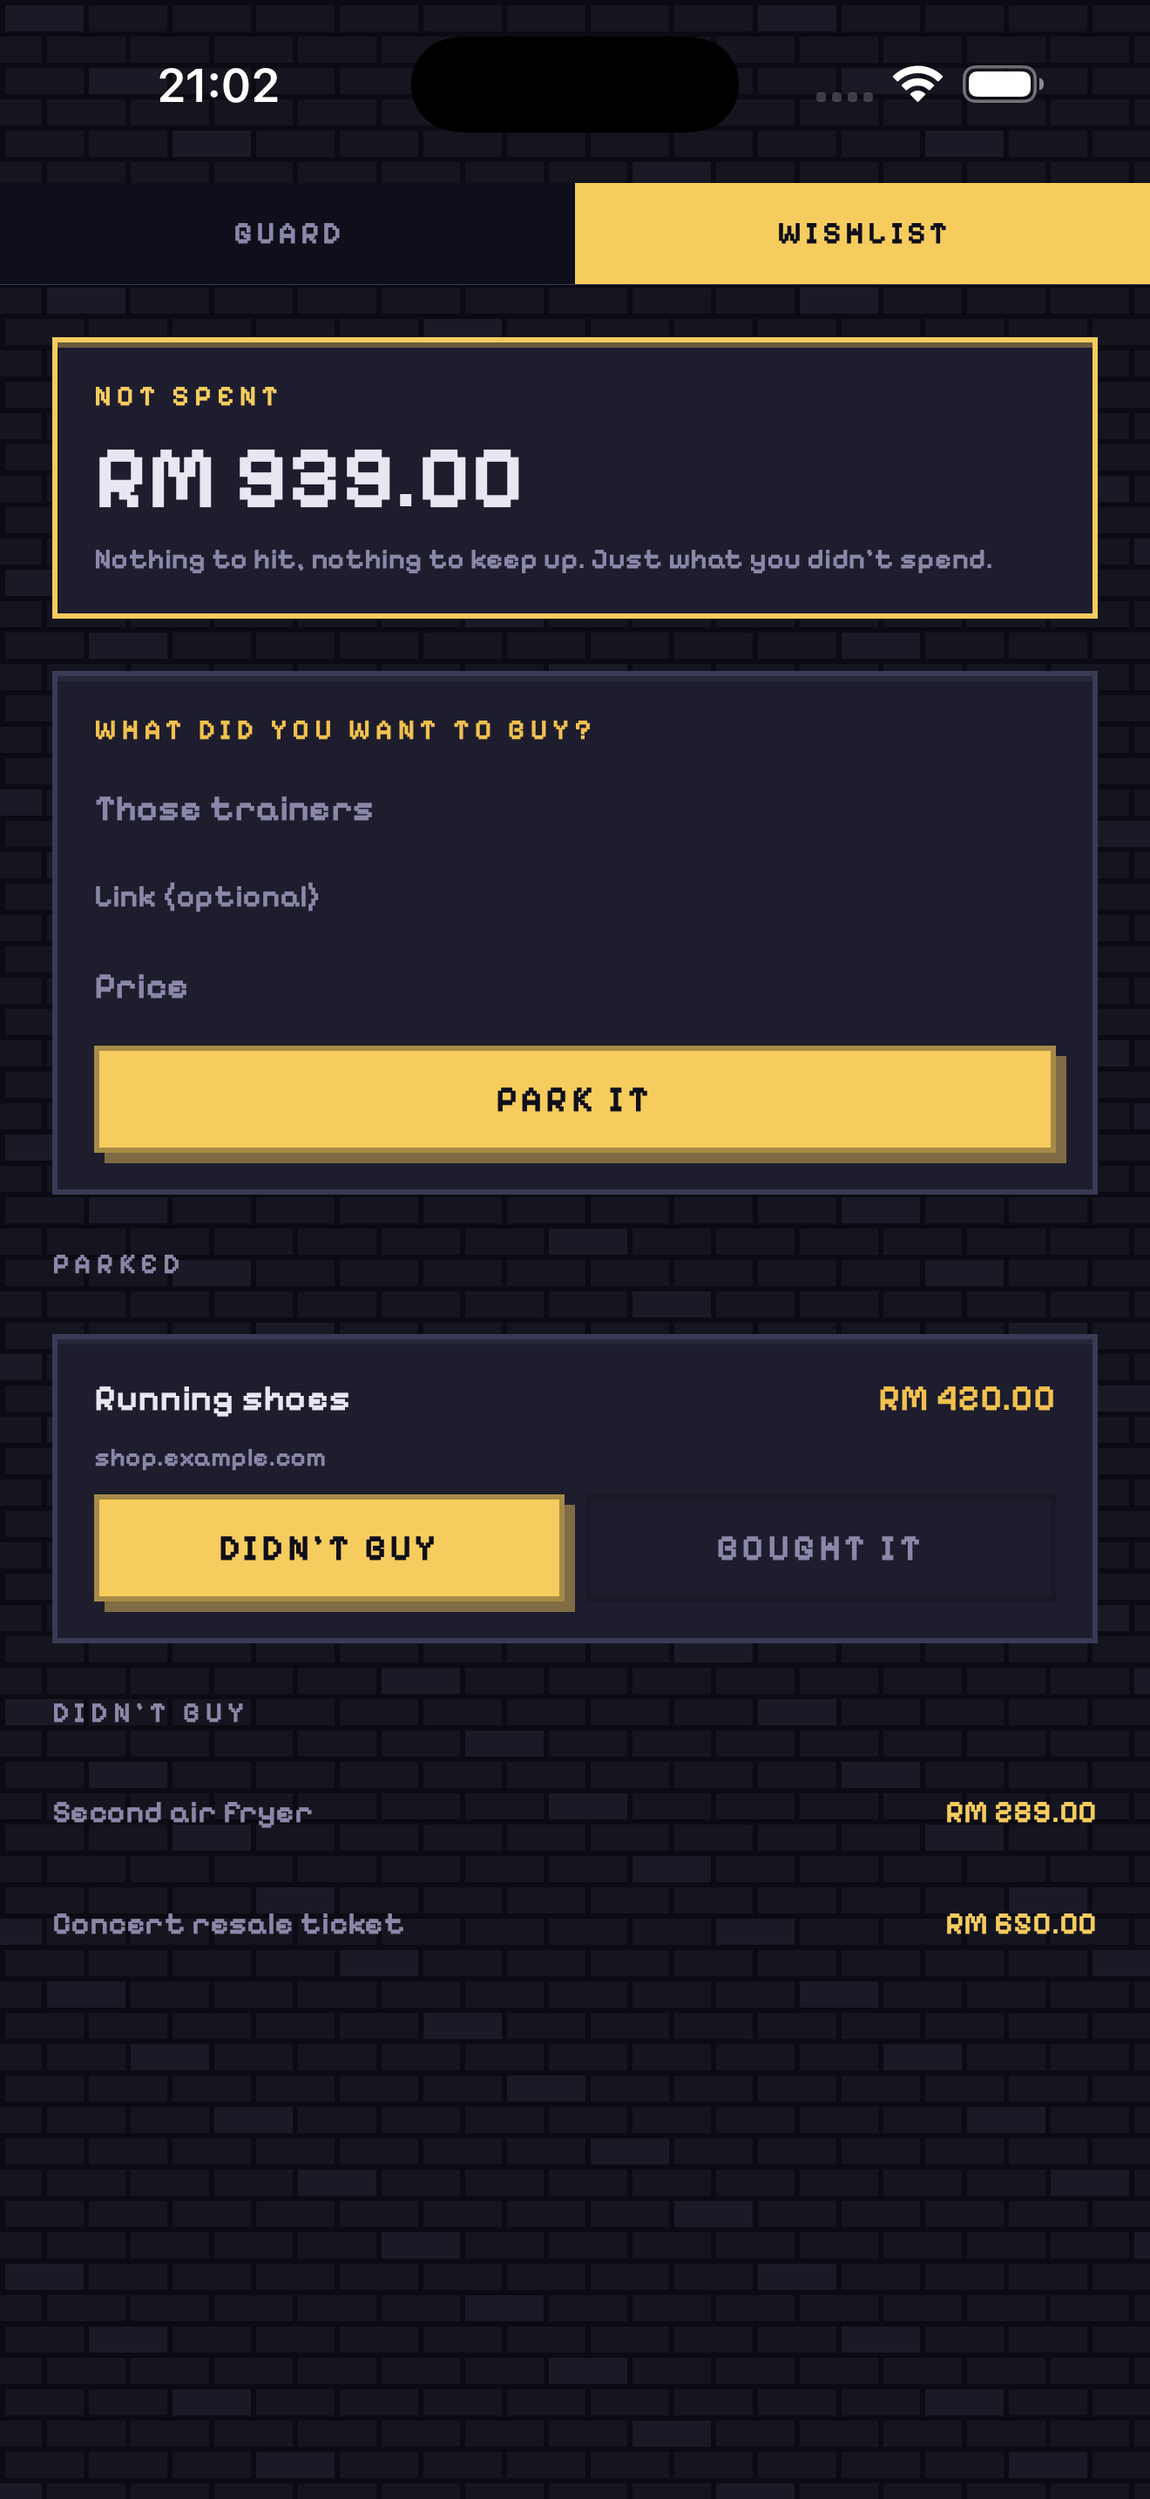
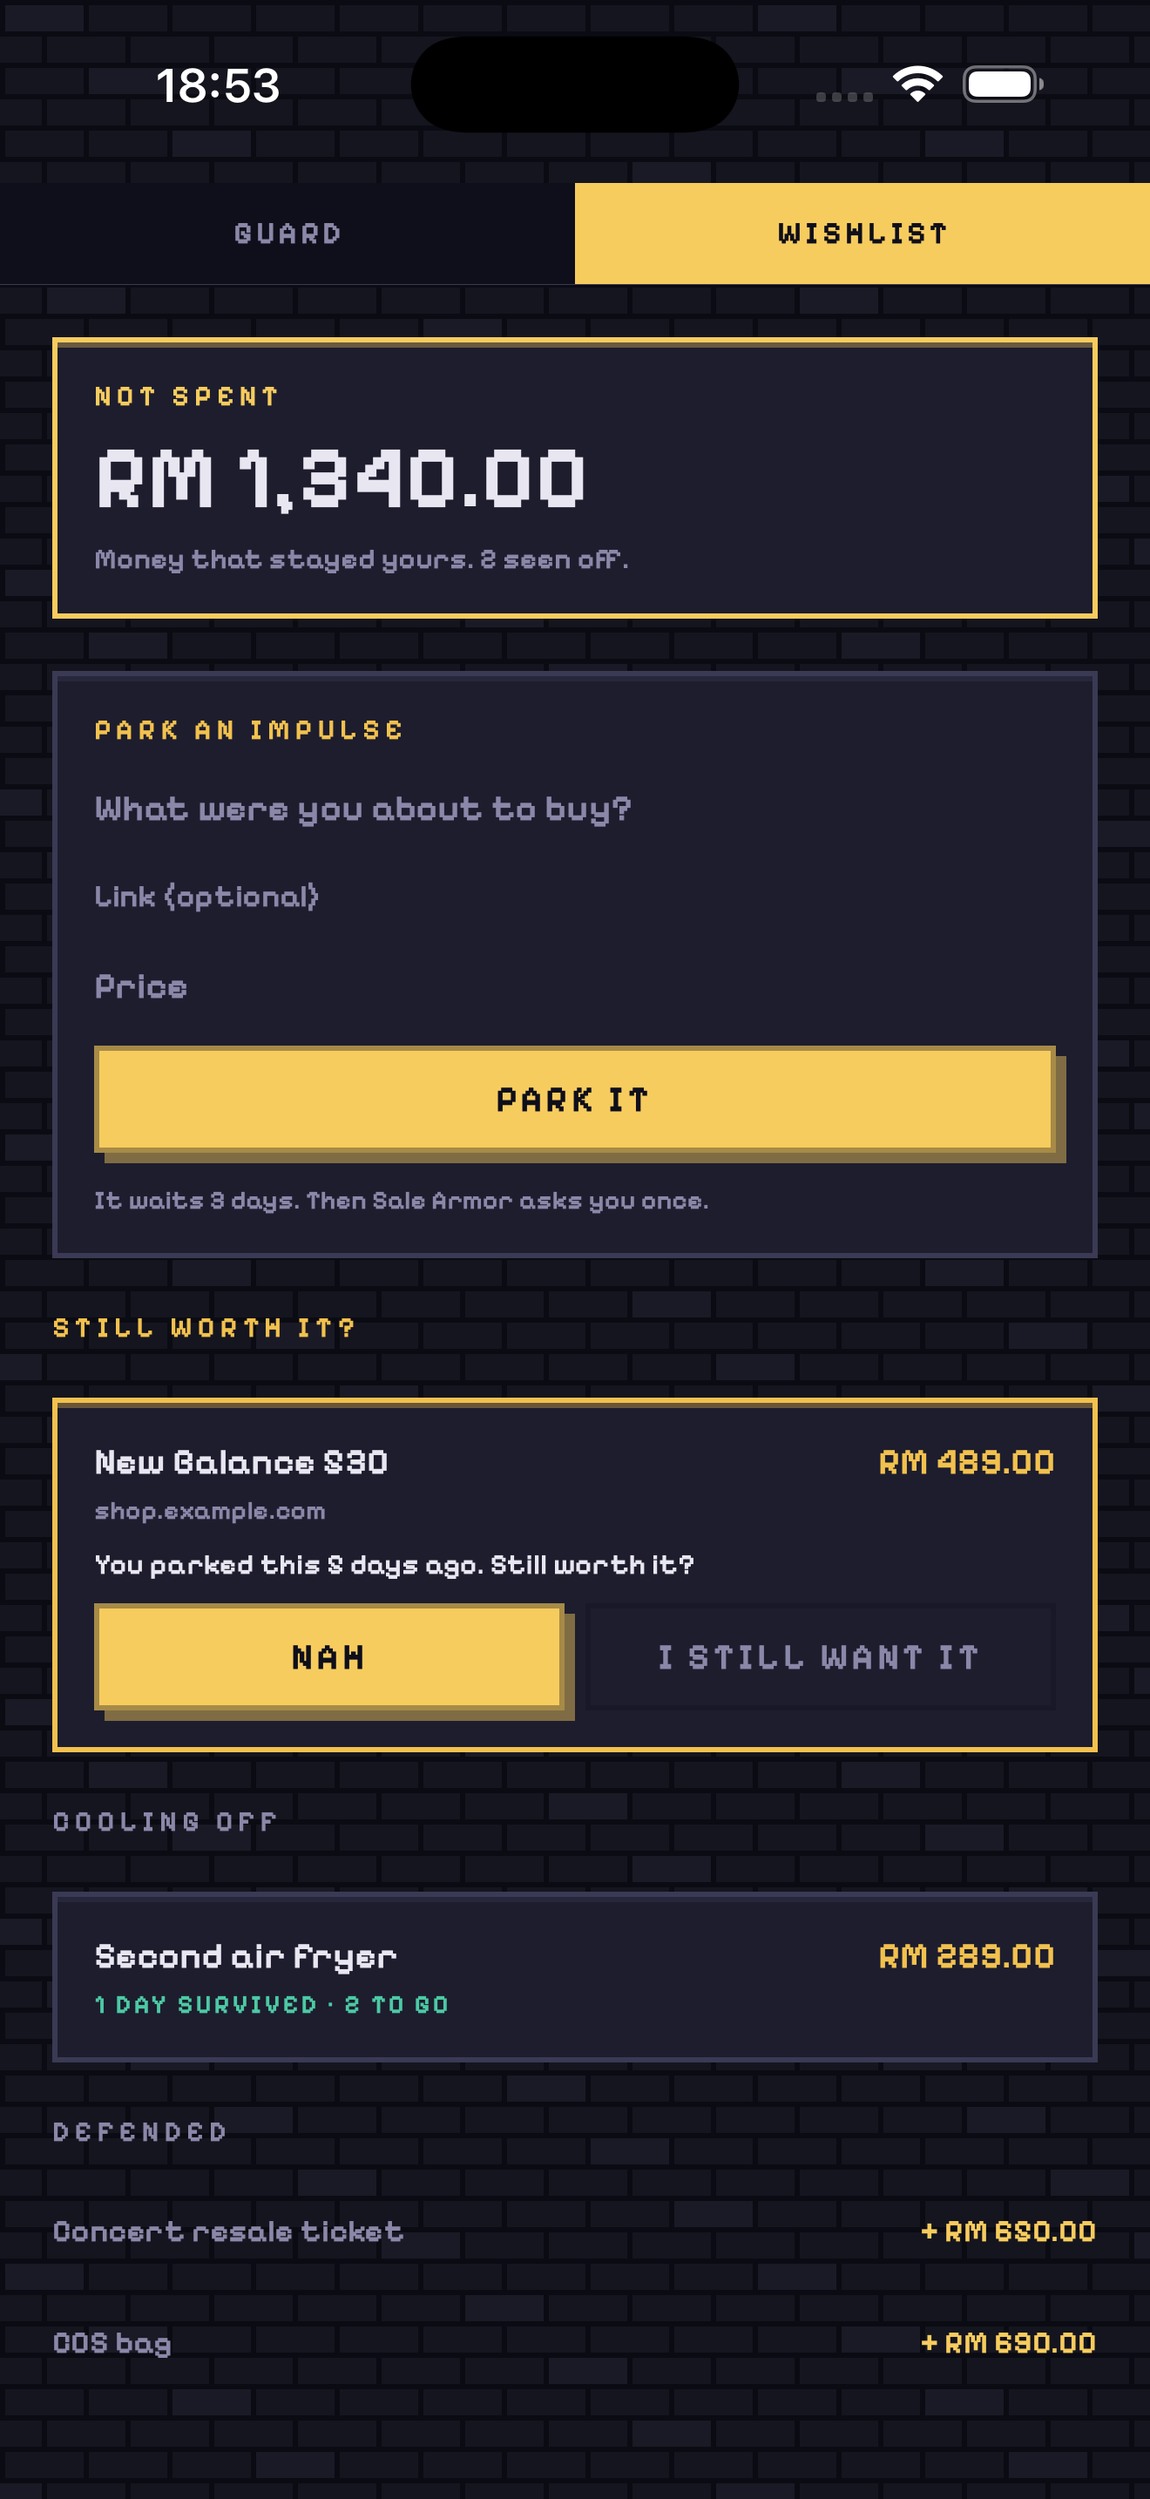
Make the wishlist a cooling-off vault
The blocking is the intervention; this is the product. Parking something now
starts a three-day wait, and only after it has cooled does Sale Armor ask once:
Nah, or I still want it. Nah is first, because turning it down is the outcome
worth making easy.

Nothing counts until it is deliberately turned down — parking a 5,000 handbag
must not make anyone 5,000 richer the instant they type the price. The total
was already computed that way; the screen now shows it being earned.

Copy follows the same rule: "what were you about to buy", not "what did you
want to buy". One records an interrupted purchase, the other invites shopping.

5 new tests, 28 pass.

diff --git a/SaleArmor/ContentView.swift b/SaleArmor/ContentView.swift
@@ -394,7 +394,7 @@ private struct ArmedView: View {
 
             if saved > 0 {
                 VStack(spacing: Px.unit) {
-                    Text("Not spent so far").pxLabel(9).foregroundStyle(Px.dim)
+                    Text("Money that stayed yours").pxLabel(9).foregroundStyle(Px.dim)
                     Text(saved.formatted(.currency(code: Locale.current.currency?.identifier ?? "USD")))
                         .font(.px(26, .black)).foregroundStyle(Px.goldMetal)
                         .accessibilityIdentifier("armedSaved")
@@ -446,47 +446,32 @@ private struct WishlistView: View {
     var body: some View {
         ScrollView {
             VStack(alignment: .leading, spacing: Px.unit * 5) {
-                savedPanel
+                defendedPanel
+                parkForm
 
-                PxPanel {
-                    VStack(alignment: .leading, spacing: Px.unit * 3) {
-                        Text("What did you want to buy?").pxLabel().foregroundStyle(Px.gold)
-                        TextField("", text: $name, prompt: Text("Those trainers").foregroundColor(Px.dim))
-                            .font(.px(14, .black)).foregroundStyle(Px.ink).textFieldStyle(.plain)
-                            .accessibilityIdentifier("wishName")
-                        TextField("", text: $link, prompt: Text("Link (optional)").foregroundColor(Px.dim))
-                            .font(.px(12)).foregroundStyle(Px.dim).textFieldStyle(.plain)
-                            .textInputAutocapitalization(.never)
-                            .accessibilityIdentifier("wishLink")
-                        TextField("", text: $price, prompt: Text("Price").foregroundColor(Px.dim))
-                            .font(.px(14, .black)).foregroundStyle(Px.ink).textFieldStyle(.plain)
-                            .keyboardType(.decimalPad)
-                            .accessibilityIdentifier("wishPrice")
-                        Button("Park it") {
-                            controller.addWish(name: name, link: link,
-                                               price: Double(price) ?? 0)
-                            name = ""; link = ""; price = ""
-                        }
-                        .buttonStyle(PxButtonStyle())
-                        .disabled(name.trimmingCharacters(in: .whitespaces).isEmpty)
-                        .accessibilityIdentifier("parkIt")
-                    }
+                // Cooled items first. Something parked long enough to decide on is the only thing
+                // on this screen that wants an answer today; everything else is just waiting.
+                let cooled = controller.wishlist.open.filter { $0.isCool() }
+                let waiting = controller.wishlist.open.filter { !$0.isCool() }
+
+                if !cooled.isEmpty {
+                    Text("Still worth it?").pxLabel().foregroundStyle(Px.gold)
+                    ForEach(cooled) { item in decisionCard(item) }
                 }
 
-                if !controller.wishlist.open.isEmpty {
-                    Text("Parked").pxLabel().foregroundStyle(Px.dim)
-                    ForEach(controller.wishlist.open) { item in
-                        openRow(item)
-                    }
+                if !waiting.isEmpty {
+                    Text("Cooling off").pxLabel().foregroundStyle(Px.dim)
+                    ForEach(waiting) { item in waitingCard(item) }
                 }
 
                 if !controller.wishlist.skipped.isEmpty {
-                    Text("Didn't buy").pxLabel().foregroundStyle(Px.dim)
+                    Text("Defended").pxLabel().foregroundStyle(Px.dim)
                     ForEach(controller.wishlist.skipped) { item in
                         HStack {
                             Text(item.name).font(.px(12)).foregroundStyle(Px.dim)
                             Spacer()
-                            Text(Self.money(item.price)).font(.px(12, .black)).foregroundStyle(Px.goldMetal)
+                            Text("+ " + Self.money(item.price))
+                                .font(.px(12, .black)).foregroundStyle(Px.goldMetal)
                         }
                         .padding(.vertical, Px.unit)
                     }
@@ -495,42 +480,109 @@ private struct WishlistView: View {
         }
     }
 
-    /// The whole point of the feature: what the shield has been worth.
-    private var savedPanel: some View {
+    /// The whole point of the feature: money that stayed yours.
+    ///
+    /// This counts killed items only, never parked ones — see `Wishlist.saved`. A total that jumped
+    /// the moment you typed a price would be a number nobody believes, least of all the person who
+    /// typed it.
+    private var defendedPanel: some View {
         PxPanel(stroke: Px.goldMetal) {
             VStack(alignment: .leading, spacing: Px.unit) {
                 Text("Not spent").pxLabel().foregroundStyle(Px.goldMetal)
                 Text(Self.money(controller.wishlist.saved))
                     .font(.px(34, .black)).foregroundStyle(Px.ink)
                     .accessibilityIdentifier("savedTotal")
-                Text("Nothing to hit, nothing to keep up. Just what you didn't spend.")
+                Text(controller.wishlist.killed == 0
+                     ? "Money that stayed yours. Nothing counts until you turn it down."
+                     : "Money that stayed yours. \(controller.wishlist.killed) seen off.")
                     .font(.px(11)).foregroundStyle(Px.dim)
             }
         }
     }
 
-    private func openRow(_ item: WishItem) -> some View {
+    /// "About to buy", not "want". One records an interrupted purchase; the other invites shopping.
+    private var parkForm: some View {
         PxPanel {
+            VStack(alignment: .leading, spacing: Px.unit * 3) {
+                Text("Park an impulse").pxLabel().foregroundStyle(Px.gold)
+                TextField("", text: $name,
+                          prompt: Text("What were you about to buy?").foregroundColor(Px.dim))
+                    .font(.px(14, .black)).foregroundStyle(Px.ink).textFieldStyle(.plain)
+                    .accessibilityIdentifier("wishName")
+                TextField("", text: $link, prompt: Text("Link (optional)").foregroundColor(Px.dim))
+                    .font(.px(12)).foregroundStyle(Px.dim).textFieldStyle(.plain)
+                    .textInputAutocapitalization(.never)
+                    .accessibilityIdentifier("wishLink")
+                TextField("", text: $price, prompt: Text("Price").foregroundColor(Px.dim))
+                    .font(.px(14, .black)).foregroundStyle(Px.ink).textFieldStyle(.plain)
+                    .keyboardType(.decimalPad)
+                    .accessibilityIdentifier("wishPrice")
+                Button("Park it") {
+                    controller.addWish(name: name, link: link, price: Double(price) ?? 0)
+                    name = ""; link = ""; price = ""
+                }
+                .buttonStyle(PxButtonStyle())
+                .disabled(name.trimmingCharacters(in: .whitespaces).isEmpty)
+                .accessibilityIdentifier("parkIt")
+
+                Text("It waits \(WishItem.coolingOff) days. Then Sale Armor asks you once.")
+                    .font(.px(10)).foregroundStyle(Px.dim)
+            }
+        }
+    }
+
+    /// Parked long enough that the impulse has passed, so the question is finally fair to ask.
+    private func decisionCard(_ item: WishItem) -> some View {
+        PxPanel(stroke: Px.gold) {
             VStack(alignment: .leading, spacing: Px.unit * 2) {
-                HStack {
-                    Text(item.name).font(.px(14, .black)).foregroundStyle(Px.ink)
-                    Spacer()
-                    Text(Self.money(item.price)).font(.px(14, .black)).foregroundStyle(Px.gold)
-                }
-                if let link = item.link, let url = URL(string: link) {
-                    Link(destination: url) {
-                        Text(link).font(.px(10)).foregroundStyle(Px.dim).lineLimit(1)
-                    }
-                }
+                itemHeading(item)
+                Text("You parked this \(item.daysParked()) days ago. Still worth it?")
+                    .font(.px(11)).foregroundStyle(Px.ink)
                 HStack(spacing: Px.unit * 2) {
-                    Button("Didn't buy") { controller.skip(item.id) }
+                    // "Nah" leads, because turning it down is the outcome worth making easy.
+                    Button("Nah") { controller.skip(item.id) }
                         .buttonStyle(PxButtonStyle())
                         .accessibilityIdentifier("skip-\(item.name)")
-                    Button("Bought it") { controller.bought(item.id) }
+                    Button("I still want it") { controller.bought(item.id) }
                         .buttonStyle(PxButtonStyle(tint: Px.panel, text: Px.dim))
                 }
             }
         }
+    }
+
+    /// Still cooling. No buttons: offering the decision now is offering it while the want is loud.
+    private func waitingCard(_ item: WishItem) -> some View {
+        PxPanel {
+            VStack(alignment: .leading, spacing: Px.unit) {
+                itemHeading(item)
+                Text(Self.survived(item))
+                    .font(.px(10)).tracking(1).textCase(.uppercase)
+                    .foregroundStyle(Px.armor)
+            }
+        }
+    }
+
+    private func itemHeading(_ item: WishItem) -> some View {
+        VStack(alignment: .leading, spacing: Px.unit) {
+            HStack {
+                Text(item.name).font(.px(14, .black)).foregroundStyle(Px.ink)
+                Spacer()
+                Text(Self.money(item.price)).font(.px(14, .black)).foregroundStyle(Px.gold)
+            }
+            if let link = item.link, let url = URL(string: link) {
+                Link(destination: url) {
+                    Text(link).font(.px(10)).foregroundStyle(Px.dim).lineLimit(1)
+                }
+            }
+        }
+    }
+
+    private static func survived(_ item: WishItem) -> String {
+        let days = item.daysParked()
+        let left = WishItem.coolingOff - days
+        return days == 0
+            ? "Parked today · \(left) to go"
+            : "\(days) day\(days == 1 ? "" : "s") survived · \(left) to go"
     }
 
     private static func money(_ amount: Double) -> String {

diff --git a/SaleArmorTests/WishlistTests.swift b/SaleArmorTests/WishlistTests.swift
@@ -98,4 +98,56 @@ final class WishlistTests: XCTestCase {
         XCTAssertEqual(back.saved, 99.99, accuracy: 0.001)
         XCTAssertEqual(back.skipped.first?.name, "Shoes")
     }
+
+    // MARK: cooling off
+
+    /// The number has to be *earned*. Parking a thousand-pound coat must not make anyone a
+    /// thousand pounds richer the instant they type the price — that is the difference between a
+    /// total people believe and a vanity metric.
+    func testParkingSomethingDoesNotCountAsSaving() {
+        var list = Wishlist()
+        list.add(item("Handbag", 5000))
+        XCTAssertEqual(list.saved, 0)
+        XCTAssertEqual(list.killed, 0)
+    }
+
+    func testOnlyTurningItDownCounts() {
+        var list = Wishlist()
+        let bag = item("Handbag", 5000)
+        let shoes = item("Shoes", 200)
+        list.add(bag)
+        list.add(shoes)
+
+        list.bought(bag.id)      // bought anyway: recorded, but saves nothing
+        list.skip(shoes.id)
+
+        XCTAssertEqual(list.saved, 200)
+        XCTAssertEqual(list.killed, 1)
+    }
+
+    func testSomethingParkedTodayIsNotYetCool() {
+        let fresh = WishItem(name: "Trainers", price: 489, addedAt: Date())
+        XCTAssertEqual(fresh.daysParked(), 0)
+        XCTAssertFalse(fresh.isCool())
+    }
+
+    func testItGoesCoolOnTheThirdDay() {
+        let calendar = Calendar.current
+        let now = Date()
+        func parked(_ daysAgo: Int) -> WishItem {
+            WishItem(name: "Trainers", price: 489,
+                     addedAt: calendar.date(byAdding: .day, value: -daysAgo, to: now)!)
+        }
+        XCTAssertFalse(parked(2).isCool(now: now))
+        XCTAssertTrue(parked(3).isCool(now: now))
+        XCTAssertTrue(parked(40).isCool(now: now))
+        XCTAssertEqual(parked(40).daysParked(now: now), 40)
+    }
+
+    /// A clock that has gone backwards — a timezone change, a manual clock edit — must not produce
+    /// a negative day count on screen.
+    func testAFutureDateDoesNotGoNegative() {
+        let later = Calendar.current.date(byAdding: .day, value: 5, to: Date())!
+        XCTAssertEqual(WishItem(name: "x", price: 1, addedAt: later).daysParked(), 0)
+    }
 }

diff --git a/Shared/ArmorWindow.swift b/Shared/ArmorWindow.swift
@@ -118,6 +118,22 @@ struct WishItem: Codable, Equatable, Identifiable {
     var boughtAt: Date?
 
     var isOpen: Bool { skippedAt == nil && boughtAt == nil }
+
+    /// Whole days since it was parked.
+    ///
+    /// Shown as "survived", because waiting is the only thing that turns a want into a decision.
+    /// It is also the honest unit: the app cannot know whether you wanted it less, only that you
+    /// did not buy it, and for how long.
+    func daysParked(now: Date = Date(), calendar: Calendar = .current) -> Int {
+        max(0, calendar.dateComponents([.day], from: addedAt, to: now).day ?? 0)
+    }
+
+    /// Long enough for the impulse to have passed, so the question is worth asking.
+    static let coolingOff = 3
+
+    func isCool(now: Date = Date(), calendar: Calendar = .current) -> Bool {
+        daysParked(now: now, calendar: calendar) >= Self.coolingOff
+    }
 }
 
 struct Wishlist: Codable, Equatable {
@@ -127,7 +143,14 @@ struct Wishlist: Codable, Equatable {
     var skipped: [WishItem] { items.filter { $0.skippedAt != nil } }
 
     /// What the shield is worth so far.
+    ///
+    /// **Only things deliberately killed count.** Parking a thousand-pound coat does not make you a
+    /// thousand pounds richer five seconds later, and a total that moved the moment you typed a
+    /// price would be a number nobody believes — including the person who typed it.
     var saved: Double { skipped.reduce(0) { $0 + $1.price } }
+
+    /// How many wants were seen off. The count is the streak-free version of a streak.
+    var killed: Int { skipped.count }
 
     mutating func add(_ item: WishItem) { items.append(item) }
 

diff --git a/SaleArmor/ArmorController.swift b/SaleArmor/ArmorController.swift
@@ -52,12 +52,12 @@ final class ArmorController: ObservableObject {
                              pattern: .monthly(days: [25]),
                              selection: FamilyActivitySelection())
         wishlist = Wishlist(items: [
-            WishItem(name: "Running shoes", link: "shop.example.com", price: 420,
-                     addedAt: daysAgo(2)),
-            WishItem(name: "Second air fryer", price: 289,
-                     addedAt: daysAgo(9), skippedAt: daysAgo(6)),
+            WishItem(name: "New Balance 530", link: "shop.example.com", price: 489,
+                     addedAt: daysAgo(5)),                       // cooled: wants an answer
+            WishItem(name: "Second air fryer", price: 289, addedAt: daysAgo(1)),  // still cooling
             WishItem(name: "Concert resale ticket", price: 650,
                      addedAt: daysAgo(20), skippedAt: daysAgo(18)),
+            WishItem(name: "COS bag", price: 690, addedAt: daysAgo(30), skippedAt: daysAgo(26)),
         ])
     }
 

diff --git a/SaleArmor/PaywallView.swift b/SaleArmor/PaywallView.swift
@@ -64,9 +64,9 @@ struct PaywallView: View {
 
     private var promises: some View {
         VStack(alignment: .leading, spacing: Px.unit * 2) {
-            promise("Shut the shopping apps on the days you overspend")
+            promise("Shut the shopping apps before you can open them")
             promise("Payday, late night, 11.11 — armed on a schedule")
-            promise("Park what you wanted, count what you didn't spend")
+            promise("Track how much you saved, to the last cent")
         }
         .frame(maxWidth: .infinity, alignment: .leading)
     }
